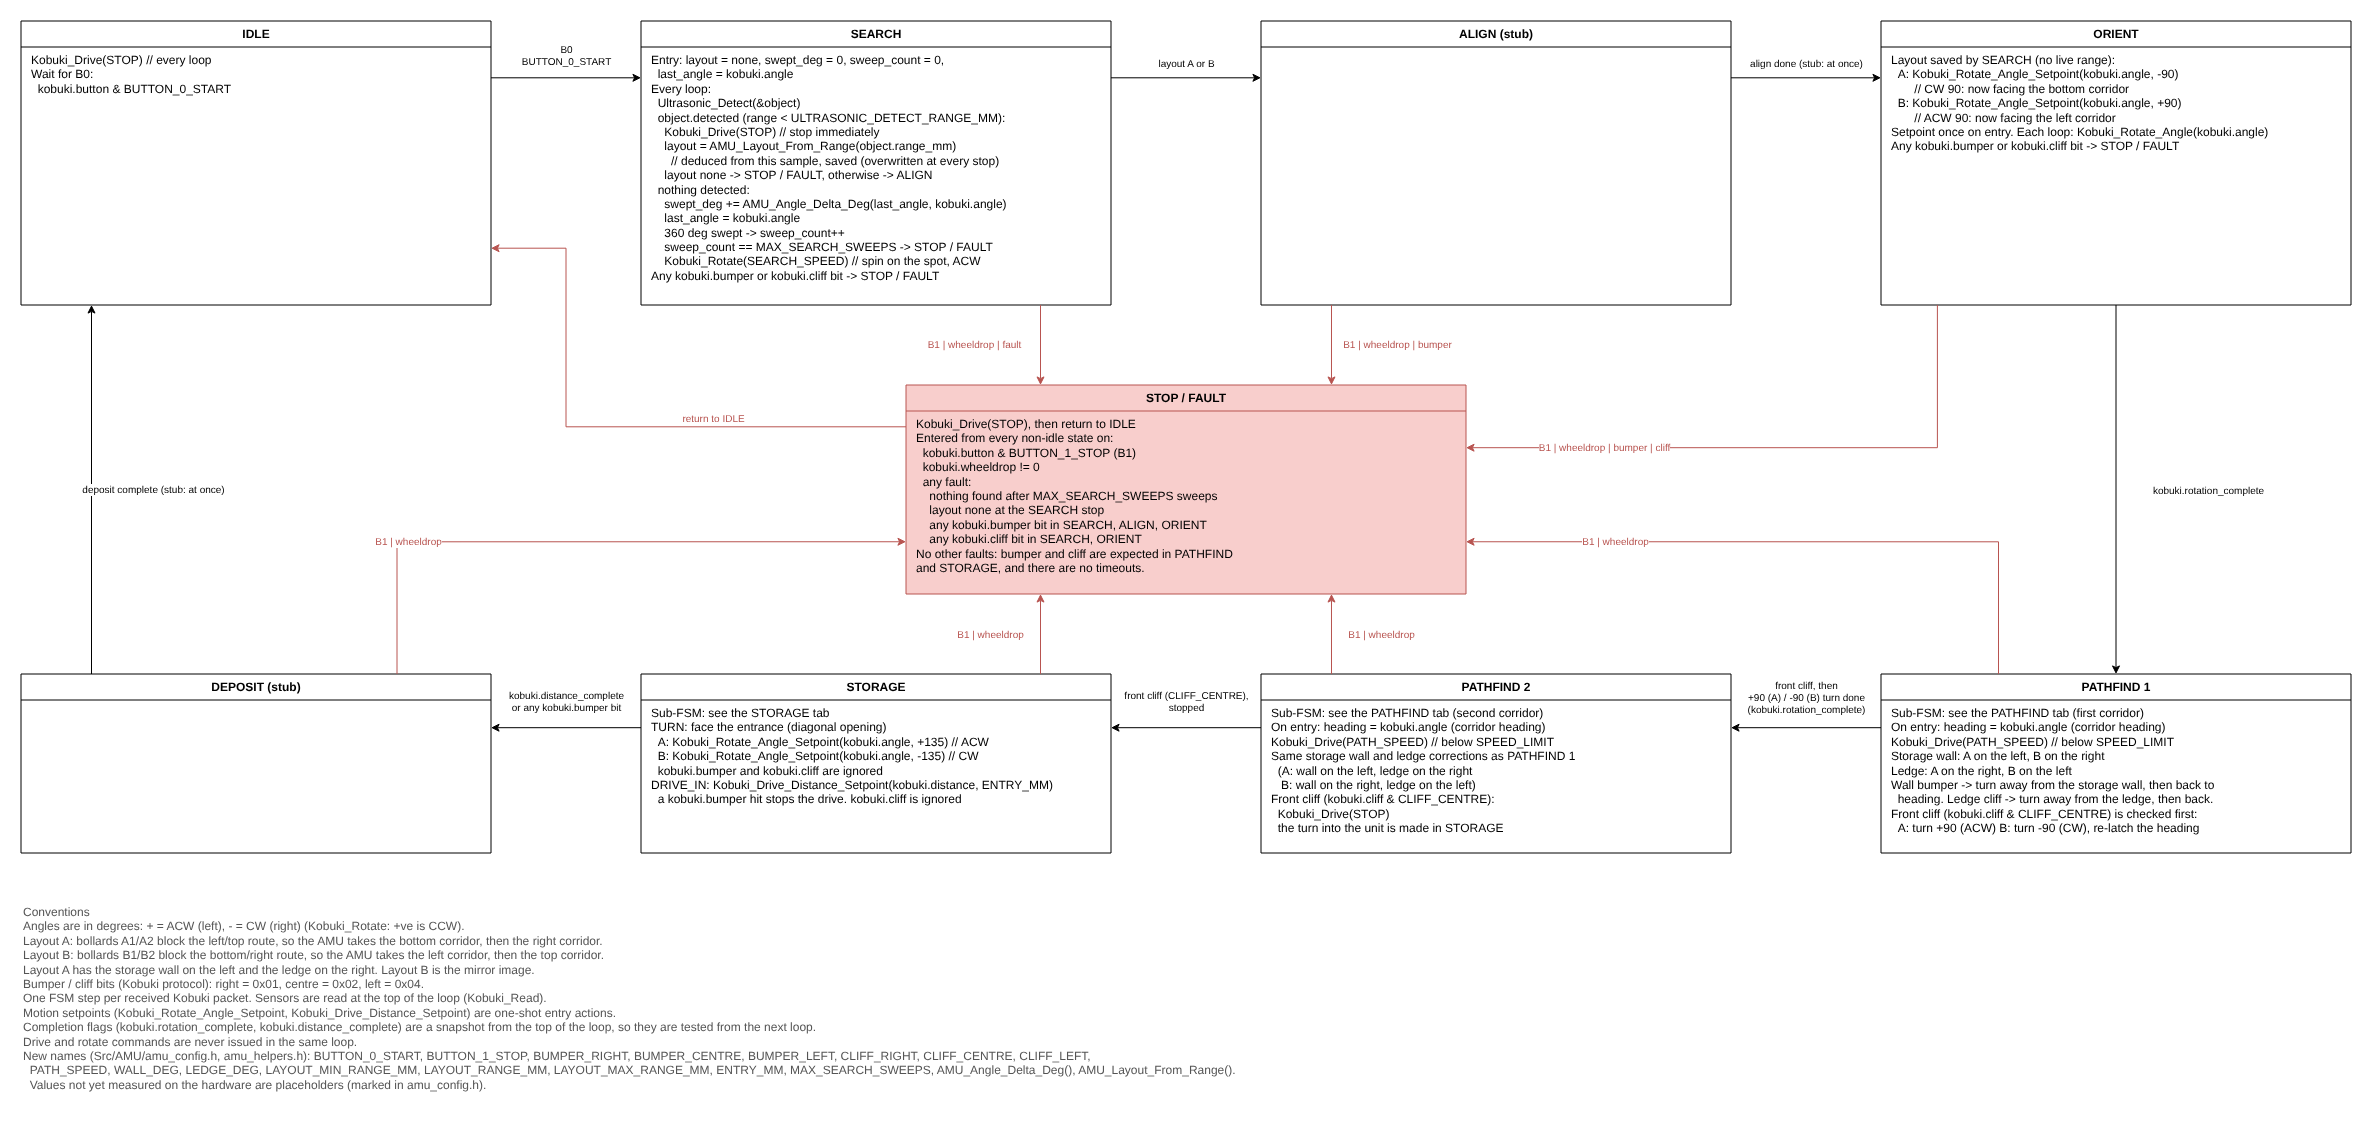
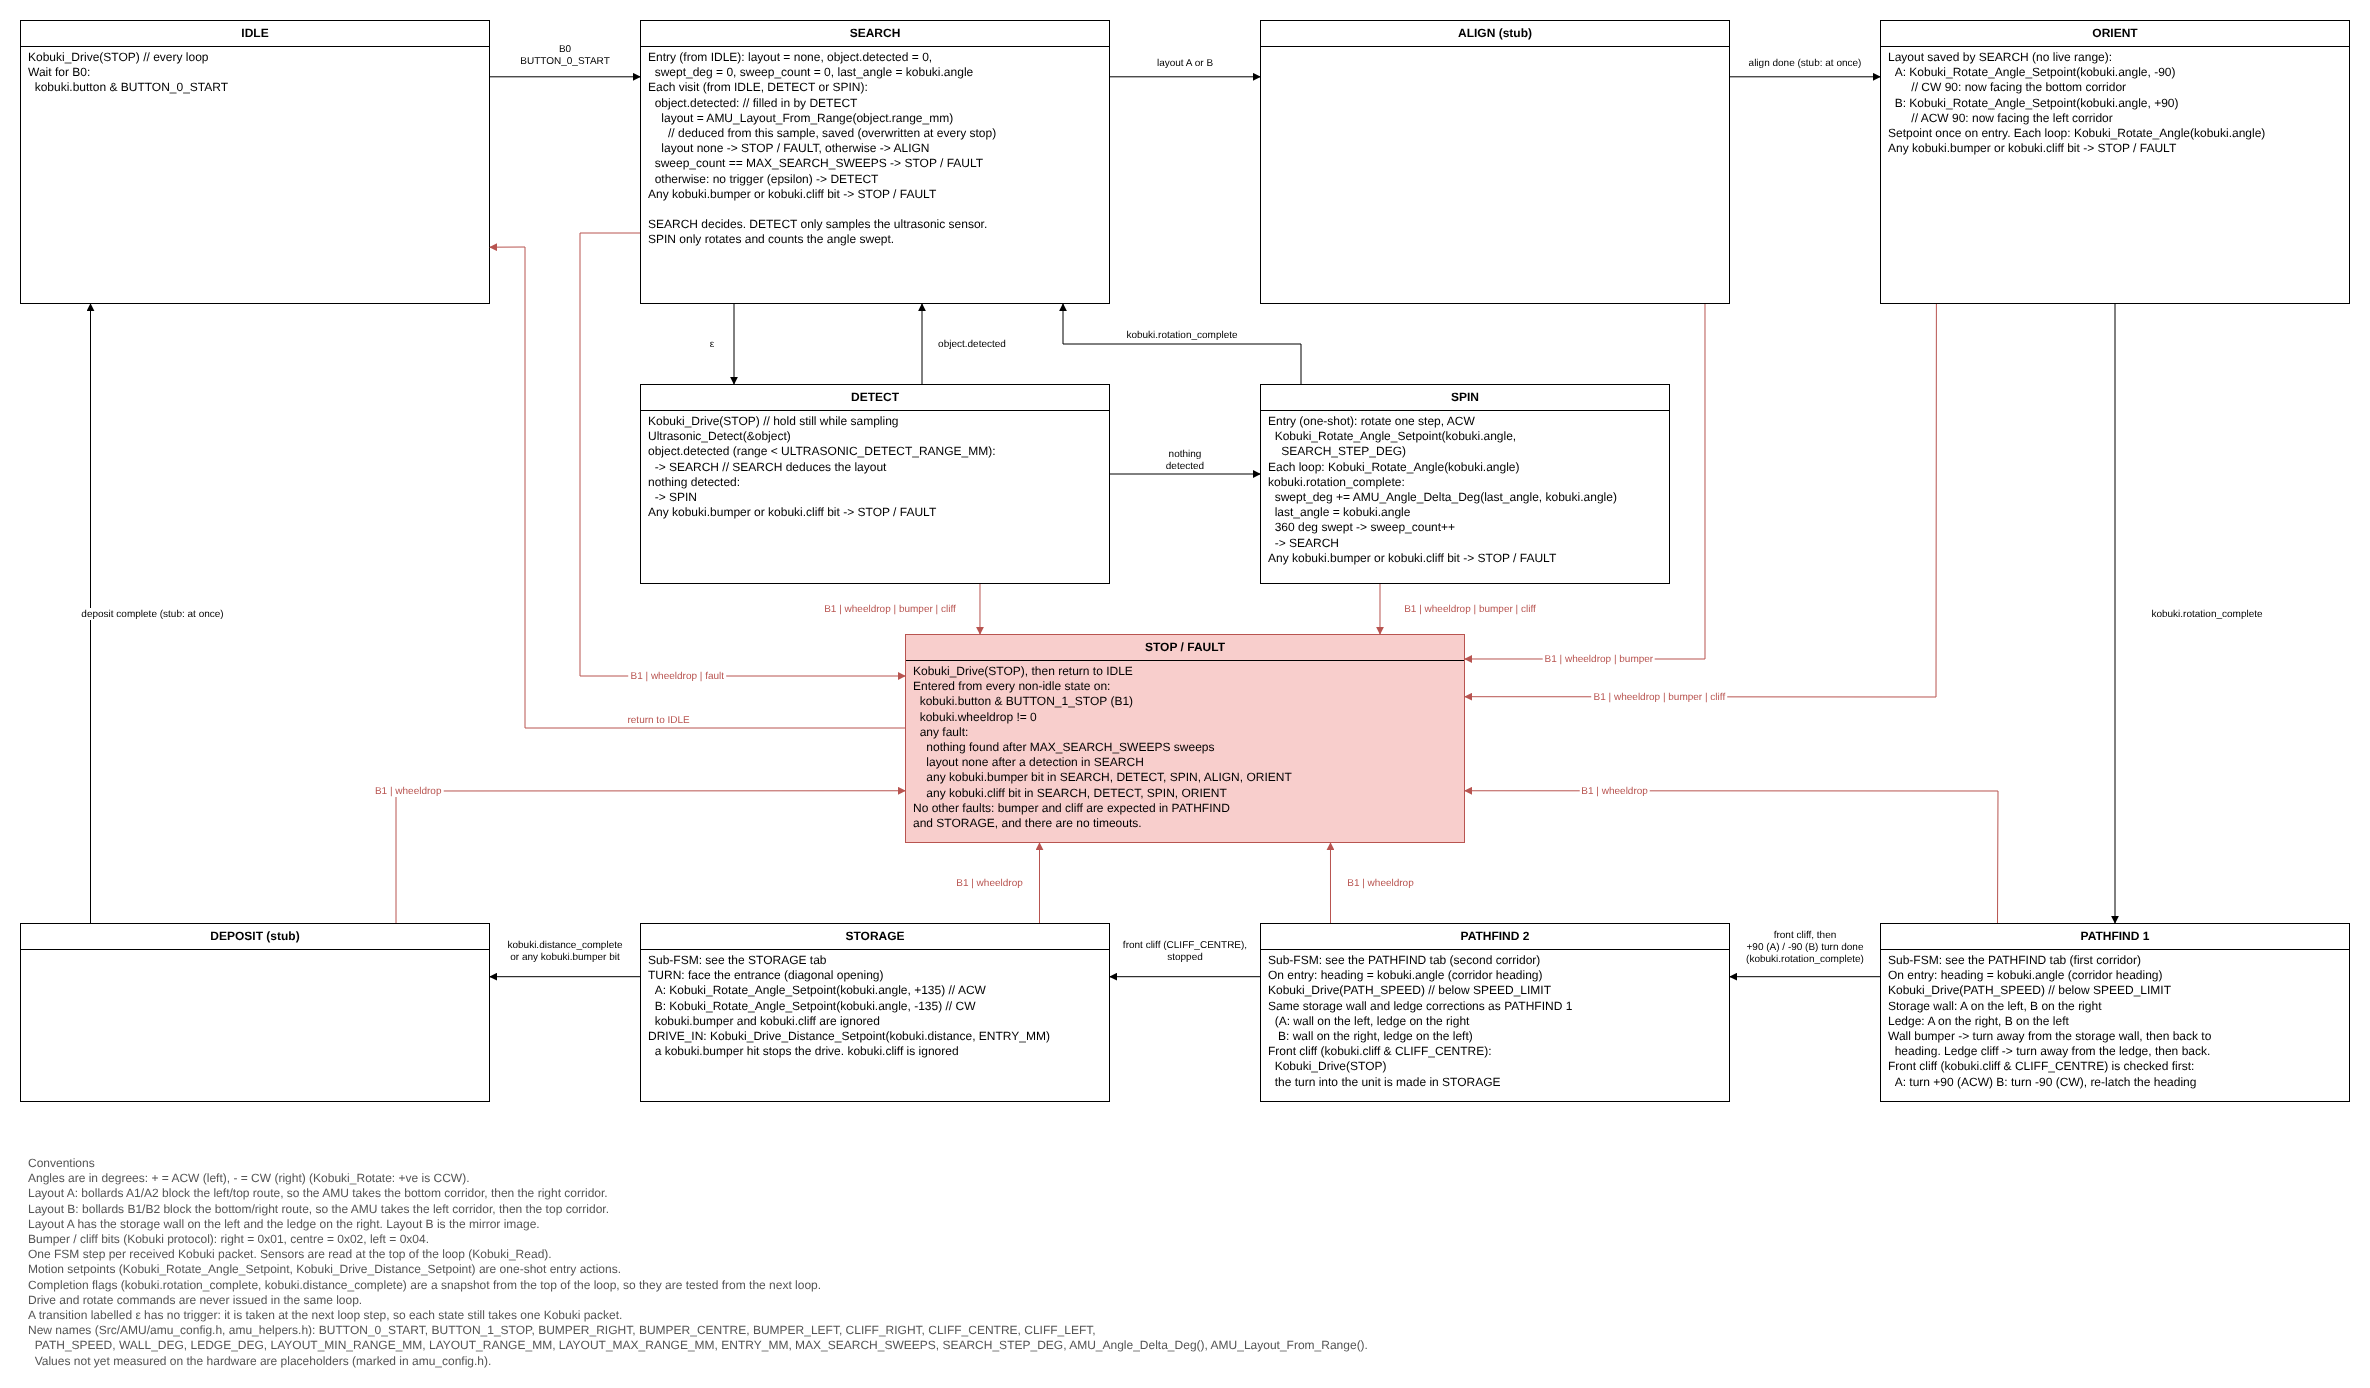
Split SEARCH into SEARCH / DETECT / SPIN on the AMU FSM diagram
SEARCH was sampling, stopping, deducing the layout, counting sweeps and
driving the spin. It is now a coordinator with two single-purpose states
on the main tab:

- SEARCH: initialises, checks object.detected, deduces the layout, gives
  up after MAX_SEARCH_SWEEPS, and goes to DETECT with an epsilon edge.
- DETECT: holds still and takes one ultrasonic reading. A detection goes
  straight back to SEARCH, otherwise on to SPIN.
- SPIN: rotates one SEARCH_STEP_DEG step, counts the angle swept, then
  returns to SEARCH.

DETECT and SPIN get their own STOP / FAULT edges (B1, wheeldrop, bumper,
cliff). STOP / FAULT, ALIGN's stop edge, the IDLE return edge and the
bottom row were moved or rerouted to make room. Diagram only, no code.

Also adds GLOSSARY.md with the terms settled here and refreshes the main
tab preview (rendered with a local script, not draw.io export).

diff --git a/GLOSSARY.md b/GLOSSARY.md
@@ -1,0 +1,42 @@
+# AMU parcel run
+
+The Autonomous Mobile Unit (AMU) that carries a parcel through the test area to the storage unit. This glossary holds the project's own terms, so the FSM diagram, the report and the code use the same words.
+
+## Language
+
+**AMU**:
+The Autonomous Mobile Unit: the Kobuki robot, driven by the Nucleo board, that carries a parcel from the collection location to the storage unit.
+_Avoid_: AMR, robot
+
+**Bollard**:
+A marker placed by the humans to block one end of a path. The AMU must never drive into one.
+
+**Layout**:
+One of the two bollard arrangements in the test area, A or B. A has bollards A1/A2 blocking the left/top route, B has bollards B1/B2 blocking the bottom/right route.
+_Avoid_: Case, scenario
+
+### Finding the layout
+
+**Search**:
+The phase in which the AMU looks for a bollard so that it can learn the Layout. It ends when a Layout is learned or when the AMU gives up.
+_Avoid_: Scan
+
+**Detect**:
+One ultrasonic reading taken while the AMU is stationary, recording whether an object is within detection range.
+_Avoid_: Ping, sample
+
+**Detection**:
+A Detect reading in which an object is within detection range. The first Detection ends the Search and fixes the Layout.
+_Avoid_: Hit
+
+**Spin**:
+Turning the AMU on the spot by one Step between two Detect readings.
+_Avoid_: Move (already means driving a distance), Turn (already used by the storage and pathfind turns)
+
+**Step**:
+The fixed angle the AMU turns in one Spin.
+_Avoid_: Increment
+
+**Sweep**:
+One full 360 degree revolution of Steps without a Detection. The Search gives up after a fixed number of Sweeps.
+_Avoid_: Lap, rotation
